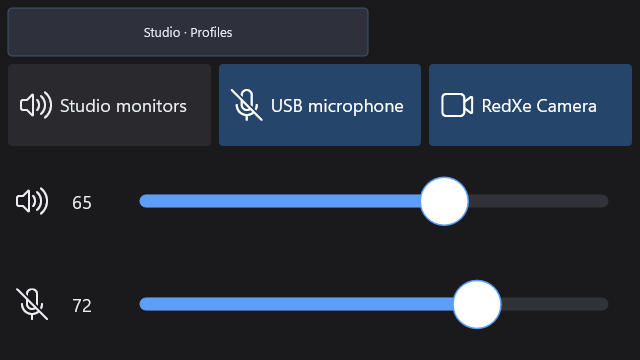
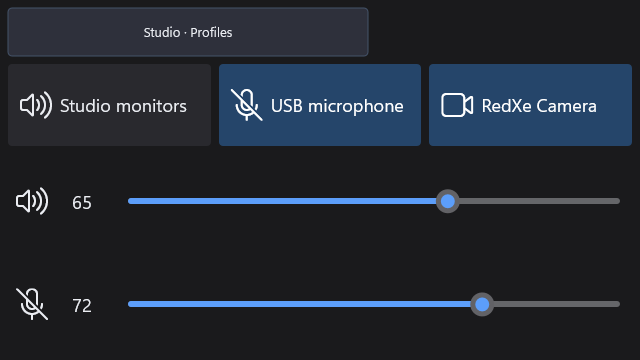
Fix touch cancellation and refresh AV sliders

Changed region(s): [[0.1875, 0.7639, 0.9688, 0.9167], [0.1875, 0.4889, 0.9688, 0.6417]]

diff --git a/RedXe/Application.cpp b/RedXe/Application.cpp
@@ -1,5 +1,6 @@
 #include "Application.h"
 #include "AccessibilityHost.h"
+#include "PointerCancellation.h"
 #include <UIAutomation.h>
 
 #include "CrashHandler.h"
@@ -50,13 +51,6 @@ constexpr LONG kXeneonEdgeClientHeight = 720;
 {
     // ptPixelLocation is a predicted point that can miss a 48 DIP control on first contact.
     return information.ptPixelLocationRaw;
-}
-
-[[nodiscard]] bool PointerStillInContact(UINT32 pointerId) noexcept
-{
-    POINTER_INFO information{};
-    return GetPointerInfo(pointerId, &information) && (information.pointerFlags & POINTER_FLAG_INCONTACT) != 0 &&
-           (information.pointerFlags & POINTER_FLAG_CANCELED) == 0;
 }
 
 void HostReleasePointerCapture(HWND window, UINT32 pointerId) noexcept
@@ -1866,16 +1860,18 @@ bool Application::TryPointerClientPosition(HWND window, UINT32 pointerId, POINT&
                                            LPARAM lParam) const noexcept
 {
     POINTER_INFO information{};
-    if (GetPointerInfo(pointerId, &information) &&
-        (information.pointerType == PT_TOUCH || information.pointerType == PT_PEN) &&
-        (information.pointerFlags & POINTER_FLAG_CANCELED) == 0)
+    if (GetPointerInfo(pointerId, &information))
     {
+        if ((information.pointerType != PT_TOUCH && information.pointerType != PT_PEN) ||
+            (information.pointerFlags & POINTER_FLAG_CANCELED) != 0)
+            return false;
         position = PointerScreenPixels(information);
         if (ScreenToClient(window, &position))
         {
             qpc = information.PerformanceCount;
             return true;
         }
+        return false;
     }
 
     // WM_POINTER* lParam is physical screen coordinates of the contact.
@@ -3578,6 +3574,15 @@ LRESULT CALLBACK Application::SettingsDialogProcedure(HWND window, UINT message,
 
 LRESULT Application::HandleMessage(HWND window, UINT message, WPARAM wParam, LPARAM lParam) noexcept
 {
+    if (PointerMessageCancelsGesture(message, wParam))
+    {
+        const UINT32 pointerId = GET_POINTERID_WPARAM(wParam);
+        if (_interactivePointerWidget != SIZE_MAX && pointerId == _interactivePointerId)
+            CancelInteractivePointer();
+        if (PageTouchesContain(pointerId))
+            CancelPageNavigation();
+        return 0;
+    }
     const auto refreshAccessibility = wil::scope_exit(
         [&]() noexcept
         {
@@ -3686,17 +3691,6 @@ LRESULT Application::HandleMessage(HWND window, UINT message, WPARAM wParam, LPA
     case WM_POINTERUP:
         OnPointerUp(window, wParam, lParam);
         return 0;
-    case WM_POINTERCAPTURECHANGED:
-        if (_interactivePointerWidget != SIZE_MAX && GET_POINTERID_WPARAM(wParam) == _interactivePointerId &&
-            !PointerStillInContact(GET_POINTERID_WPARAM(wParam)))
-        {
-            CancelInteractivePointer();
-        }
-        if (PageTouchesContain(GET_POINTERID_WPARAM(wParam)))
-        {
-            CancelPageNavigation();
-        }
-        return 0;
     case WM_LBUTTONDOWN:
         OnMouseButtonDown(window, lParam);
         return 0;
@@ -3774,6 +3768,8 @@ LRESULT Application::HandleMessage(HWND window, UINT message, WPARAM wParam, LPA
         SetRaiseCloseHovered(false);
         return 0;
     case WM_CANCELMODE:
+        CancelPageNavigation();
+        [[fallthrough]];
     case WM_KILLFOCUS:
         CancelInteractivePointer();
         ClearKeyboardFocus();

diff --git a/Plugins/AVControl/AVControlView.cpp b/Plugins/AVControl/AVControlView.cpp
@@ -261,10 +261,18 @@ void LiveView::SetVisible(bool visible) noexcept
 }
 void LiveView::SetState(const ConfirmedState& state, std::wstring_view profileName, uint32_t pendingMask) noexcept
 {
-    if (_state.output.id != state.output.id || _state.output.generation != state.output.generation ||
-        _state.output.levelRevision != state.output.levelRevision || _state.microphone.id != state.microphone.id ||
-        _state.microphone.generation != state.microphone.generation ||
-        _state.microphone.levelRevision != state.microphone.levelRevision)
+    const bool outputChanged = _state.output.id != state.output.id ||
+                               _state.output.generation != state.output.generation ||
+                               _state.output.levelRevision != state.output.levelRevision;
+    const bool microphoneChanged = _state.microphone.id != state.microphone.id ||
+                                   _state.microphone.generation != state.microphone.generation ||
+                                   _state.microphone.levelRevision != state.microphone.levelRevision;
+    const auto* captured = _view.Controls().GetCapturedControl();
+    // An unrelated endpoint's level notification must not interrupt the slider under the finger.
+    // Inspect capture, including a thumb grab that has not emitted its first Preview yet.
+    const bool unaffectedSlider =
+        captured && ((captured == _sliders[0] && !outputChanged) || (captured == _sliders[1] && !microphoneChanged));
+    if ((outputChanged || microphoneChanged) && !unaffectedSlider)
         Cancel();
     _state = state;
     const size_t count = (std::min)(profileName.size(), _profileName.size() - 1);
@@ -327,7 +335,6 @@ void LiveView::Arrange()
         _levelMutes[i]->SetVisible(usable && mute.width > 0.0f && mute.height >= 48.0f);
         _levelMutes[i]->SetBounds(Bounds(mute));
         _levelIcons[i]->SetVisible(usable);
-        _levelValues[i]->SetVisible(usable);
         constexpr float kLevelIconDip = 32.0f;
         const float icon = (std::min)(kLevelIconDip, (std::max)(24.0f, mute.height - 8.0f));
         _levelIcons[i]->SetFontRole(IconFontRole(fluent, icon));
@@ -336,6 +343,9 @@ void LiveView::Arrange()
         const float iconX = mute.x + 8.0f;
         const float iconY = rowTop + (mute.height - icon) * 0.5f;
         _levelIcons[i]->SetBounds(D2D1::RectF(iconX, iconY, iconX + icon, iconY + icon));
+        // Preserve the touch targets when the minimum microphone row cannot fit a readable percentage.
+        // The Slider still exposes its confirmed value through RangeValue accessibility.
+        _levelValues[i]->SetVisible(usable && slider.x - (iconX + icon) >= (minimal ? 24.0f : 32.0f));
         _levelValues[i]->SetBounds(D2D1::RectF(iconX + icon, rowTop, slider.x, rowBottom));
         _levelValues[i]->SetFontRole(minimal ? DxUi::FontRole::Small : DxUi::FontRole::BodyLarge);
         _levelValues[i]->SetAlignment(DWRITE_TEXT_ALIGNMENT_CENTER);

diff --git a/Tests/AVControlTests/NativeViewTests.cpp b/Tests/AVControlTests/NativeViewTests.cpp
@@ -251,6 +251,15 @@ uint32_t RunNativeViewTests()
     {
         gpu.Resize(size[0], size[1]);
         Hr(view.Prepare(size[0], size[1], 96), "AV responsive native preparation");
+        if (size[0] == 160)
+        {
+            Check(!FindLabel(view.Controls().GetRoot(), std::to_wstring(state.microphone.level)),
+                  "minimum microphone row hides a percentage that would overlap the thumb");
+            const auto* input = dynamic_cast<DxUi::Slider*>(
+                FindAccessible(view.Controls().GetRoot(), L"Microphone gain, Windows input level"));
+            Check(input && input->GetValue() == state.microphone.level,
+                  "minimum microphone slider retains its accessible confirmed value");
+        }
         gpu.Draw(view);
         gpu.Save(artifactRoot / (std::to_wstring(size[0]) + L"x" + std::to_wstring(size[1]) + L".png"));
         Check(view.Prepare(size[0], size[1], 96) == S_FALSE, "AV unchanged preparation is clean");
@@ -336,6 +345,20 @@ uint32_t RunNativeViewTests()
     view.Pointer({DxUi::PointerAction::Up, slider.x + slider.width * .8f, y});
     Check(commands.count == count, "AV external level notification cancels stale draft");
     Hr(view.Prepare(640, 360, 96), "AV confirmed change prepare");
+    const float grabX = slider.x + 12.0f + (slider.width - 24.0f) * state.output.level / 100.0f;
+    Check(view.Pointer({DxUi::PointerAction::Down, grabX + 8.0f, y + 16.0f}),
+          "AV accepts an off-center finger grab without seeking");
+    ++state.microphone.levelRevision;
+    state.microphone.level = 33;
+    view.SetState(state, L"Studio", 0);
+    Hr(view.Prepare(640, 360, 96), "AV unrelated microphone update during output grab");
+    Check(view.Pointer({DxUi::PointerAction::Move, slider.x + slider.width * .75f, y + 16.0f}),
+          "AV output drag survives an unrelated microphone level update");
+    view.Pointer({DxUi::PointerAction::Up, slider.x + slider.width * .75f, y + 16.0f});
+    Check(commands.count == count + 1 && commands.last.kind == ViewCommandKind::SetLevel &&
+              commands.last.device == DeviceKind::Output,
+          "AV preserved output gesture commits exactly once after unrelated input changes");
+    Hr(view.Prepare(640, 360, 96), "AV prepare after unrelated-input regression");
     gpu.Draw(view);
     const auto initial = view.Statistics();
     for (uint32_t i = 0; i < 1000; ++i)

diff --git a/Tests/HostPluginTests/HostPluginTests.cpp b/Tests/HostPluginTests/HostPluginTests.cpp
@@ -9,6 +9,7 @@
 #include "PlugInterfaces/FactoryImpl.h"
 #include "PluginHost.h"
 #include "PluginManager.h"
+#include "PointerCancellation.h"
 #include "ProcessViewerTestContract.h"
 #include "Renderer.h"
 #include "Settings.h"
@@ -334,6 +335,20 @@ void TestFrameScheduler(bool& success) noexcept
 void TestPageSwipePolicy(bool& success) noexcept
 {
     std::wcout << L"[ RUN      ] page swipe axis lock, rubber-band, commit, and settle\n";
+    const WPARAM contact = MAKEWPARAM(17, POINTER_MESSAGE_FLAG_INCONTACT);
+    const WPARAM canceled = MAKEWPARAM(17, POINTER_MESSAGE_FLAG_CANCELED | POINTER_MESSAGE_FLAG_INCONTACT);
+    Check(!PointerMessageCancelsGesture(WM_POINTERDOWN, contact) &&
+              !PointerMessageCancelsGesture(WM_POINTERUPDATE, contact) &&
+              !PointerMessageCancelsGesture(WM_POINTERUP, MAKEWPARAM(17, 0)),
+          L"ordinary contact and release retain the slider commit path", success);
+    Check(PointerMessageCancelsGesture(WM_POINTERCAPTURECHANGED, contact),
+          L"capture loss cancels even when the last sample still says in contact", success);
+    Check(PointerMessageCancelsGesture(WM_POINTERUP, canceled) &&
+              PointerMessageCancelsGesture(WM_POINTERUPDATE, canceled) &&
+              PointerMessageCancelsGesture(WM_POINTERDOWN, canceled),
+          L"canceled contacts never become slider preview or release commits", success);
+    Check(!PointerMessageCancelsGesture(WM_KEYDOWN, canceled), L"pointer flags do not reinterpret unrelated messages",
+          success);
     Check(!PageSwipeAcceptsFingerCount(0), L"no fingers do not navigate dashboard pages", success);
     Check(!PageSwipeAcceptsFingerCount(1), L"one finger does not navigate dashboard pages", success);
     Check(PageSwipeAcceptsFingerCount(2), L"two fingers may navigate dashboard pages", success);

diff --git a/Tests/AVControlTests/AVControlTests.cpp b/Tests/AVControlTests/AVControlTests.cpp
@@ -151,8 +151,7 @@ void LayoutTests()
         Require(layout.density != Density::Unusable, "supported rectangle has usable density");
         std::vector<Rect> targets(layout.toggles.begin(), layout.toggles.end());
         for (const auto& mute : layout.levelMutes)
-            if (mute.width >= 48.0f && mute.height >= 48.0f)
-                targets.push_back(mute);
+            targets.push_back(mute);
         targets.push_back(layout.profileSelector);
         for (size_t i = 0; i < layout.sliders.size(); ++i)
         {
@@ -213,8 +212,8 @@ void LayoutTests()
                 compact.sliders[0].height <= 48.01f && compact.sliders[0].height >= 47.99f,
             "level mute stays 48 DIP tall while the slider uses a 48 DIP touch pointer band");
     Require(compact.toggles[0].height >= 48.0f, "compact mute cards stay at least 48 DIP tall");
-    Require(minimum.sliders[1].width >= 48.0f && minimum.levelMutes[1].width > 0.0f,
-            "minimum microphone row keeps a 48 DIP slider and a leading mute gutter");
+    Require(minimum.sliders[1].width >= 48.0f && minimum.levelMutes[1].width >= 48.0f,
+            "minimum microphone row keeps both slider and mute targets at least 48 DIP wide");
 }
 } // namespace
 

diff --git a/RedXe/PointerCancellation.h b/RedXe/PointerCancellation.h
@@ -1,0 +1,12 @@
+#pragma once
+
+#include <windows.h>
+
+// Capture loss is terminal even when GetPointerInfo still describes the preceding in-contact sample.
+// A canceled Up is not a release/commit. Read this before falling back to the message coordinates.
+[[nodiscard]] inline bool PointerMessageCancelsGesture(UINT message, WPARAM wParam) noexcept
+{
+    return message == WM_POINTERCAPTURECHANGED ||
+           ((message == WM_POINTERDOWN || message == WM_POINTERUPDATE || message == WM_POINTERUP) &&
+            IS_POINTER_CANCELED_WPARAM(wParam));
+}

diff --git a/Plugins/AVControl/AVControlLayout.cpp b/Plugins/AVControl/AVControlLayout.cpp
@@ -44,7 +44,8 @@ LiveLayout LayoutLive(float width, float height) noexcept
 
     if (layout.density == Density::Minimal)
     {
-        constexpr float padding = 8;
+        // At the minimum width, leave room for a 48 DIP mute, slider and Profile target plus their gap.
+        const float padding = (std::min)(8.0f, (width - 152.0f) * 0.5f);
         constexpr float gap = 4;
         const float bodyWidth = width - 2 * padding;
         layout.header = {padding, 0, bodyWidth, 20};

diff --git a/Specs/Plugins/Plugins_AVControl.md b/Specs/Plugins/Plugins_AVControl.md
@@ -1,7 +1,7 @@
 # AV Control
 
 Status: normative implementation contract; feature delivery in progress
-Last reviewed: 2026-09-08
+Last reviewed: 2026-09-09
 
 The active [AV implementation plan](../Plans/WIP/RFC_Plugins_AVControl.md) tracks unfinished integration and release
 gates. The browser mockup and synthetic tests are not evidence of working Windows audio or camera backends.
@@ -26,6 +26,8 @@ Slider gestures retain the endpoint ID, generation, level revision and layout re
 only the local draft. Commit publishes at most once and only while those identities/revisions remain coherent.
 Cancel, endpoint replacement, external level change or changed geometry produces no endpoint write. Level changes
 never alter mute. Keyboard ranges retain one-point precision, five-point page steps and clamp at 0–100.
+An update to the other audio endpoint MUST NOT cancel the captured slider, including an off-center thumb grab
+before its first Preview. A change to the captured endpoint still cancels the gesture.
 
 ## Responsive live view
 
@@ -35,17 +37,18 @@ and Profile hit targets are at least 48×48 logical pixels. Sliders are 48 DIP t
 at least 48 DIP wide. Hit targets do not overlap or extend outside their tile. Mute and camera-off
 buttons use state-specific Fluent glyphs (volume/mute, microphone/mic-off) sized to 32 DIP `IconLarge` with 12 DIP
 padding inside the card. Camera always uses the video glyph (`E714`), including unavailable and off, and uses
-disabled text when the row cannot activate. Level sliders use DxUi's 6 DIP track, 20 DIP gray chrome disc, and accent inner thumb
-(6 DIP rest, 16 hover, 12 pressed). The 48 DIP pointer band is the unpainted touch target; it is not the whole level
+disabled text when the row cannot activate. Level sliders use DxUi's 6 DIP track, 24 DIP gray chrome disc, and accent inner thumb
+(14 DIP rest, 20 hover, 16 pressed). The 48 DIP pointer band is the unpainted touch target; it is not the whole level
 panel and is not sized from the chrome disc. The leading icon and level value share a
-48 DIP mute hit target that sends the same mute command as the matching
-device card whenever the row is wide enough to keep both that target and the slider at 48 DIP wide.
+mute hit target at least 48 DIP wide that sends the same mute command as the matching device card.
+If the leading gutter cannot fit a readable percentage, hide only that text; the Slider retains its accessible value.
 
 Widths below 320 or heights below 300 use the minimal layout: three mute/off targets followed by two compact
 sliders. A quiet, labeled Profile target shares the microphone row; the output slider retains the full row width.
 Both sliders keep a 48 DIP hit height centered in the level panel, with compact labels in the leading
-mute target. At 160×180, the microphone level row is 92 pixels
-wide: a leading mute gutter plus a 48-pixel slider. Profile is 48×48. Profile selection is one tap at every size.
+mute target. At widths from 160 through 168 DIP, horizontal padding grows from 4 to 8 DIP to preserve all targets.
+At 160×180, the microphone level row is 100 DIP wide: a 52 DIP mute target plus a 48 DIP slider; its cramped numeric
+label is hidden. Profile stays at least 48×48. Profile selection is one tap at every size.
 Otherwise widths below 800 with height at least 620 use tall
 rows; widths at least 800 below height 480 use the wide layout; remaining sizes below width 800 or height 480 use
 compact layout; others use the large layout. Definitions remain subordinate to selection. Raised content is at most half the

diff --git a/docs/plugins/av-control.md b/docs/plugins/av-control.md
@@ -10,13 +10,15 @@ Plugin id: `builtin.av-control`
 
 Live controls for **output mute**, **microphone mute**, and **camera off**, plus output and microphone levels. The output and microphone buttons show the selected device names; mute also switches the speaker and microphone icons. Camera always keeps a video icon, including when the row is unavailable. Tapping the speaker or microphone icon beside a slider mutes or unmutes that device, the same as the matching device card. Profile selection is one tap at every supported size. **F6** opens profiles from the keyboard.
 
-Smallest useful tile is 160×180 DIPs. Mute, camera and Profile targets are at least 48×48 DIPs. Device icons stay 32 DIP inside the cards. Volume sliders use a 6 DIP track, a 20 DIP gray chrome disc, and an accent inner thumb (6 DIP rest, 16 hover, 12 pressed); their pointer band is 48 DIP tall, centered in the row, so a finger can grab the thumb without jumping the level. Displayed mute and level state changes only after Windows confirms the action. Failure stays visible; it is never drawn as a successful mute or profile switch.
+Smallest useful tile is 160×180 DIPs. Mute, camera and Profile targets are at least 48×48 DIPs. Device icons stay 32 DIP inside the cards. Volume sliders pair a slim rounded track with a clearly visible blue thumb and subtle gray surround. The invisible touch area is 48 DIP tall: grab anywhere near the thumb without jumping the level, or tap farther along the track to seek. Dragging previews the level; releasing commits it. An interrupted touch cancels safely, and changes to the other audio device do not interrupt your drag. Displayed mute and confirmed level state changes only after Windows acknowledges the action. Failure stays visible; it is never drawn as a successful mute or profile switch.
 
 Profiles bind an output, a microphone, and a camera. Loading the dashboard does **not** apply hardware from those definitions. You choose a profile to apply it. Levels are 0–100. Mute is independent of level.
 
 Camera setup inside the widget is guided steps for the separate RedXe Camera package. It does not install or prove that package by itself. Hardware, IME, and screen-reader acceptance are still tracked on the AV plan. When a profile, editor, or camera-setup view has more than one page, a row of dots at the bottom shows the current page.
 
 One-finger touches stay with the widget so sliders and page dots work. Two or three fingers swipe RedXe dashboard pages after the swipe locks sideways; a quick second tap does not cancel a slider.
+
+At the smallest tile size, the microphone percentage is hidden to keep the thumb and mute button clear. Its level remains available to accessibility tools; enlarge the tile to see both percentages.
 
 Double-click or double-tap raises the widget to half the window.
 

diff --git a/Specs/Plans/Done/SliderTouchReview_2026-09-09.md b/Specs/Plans/Done/SliderTouchReview_2026-09-09.md
@@ -1,0 +1,34 @@
+# Slider touch and appearance review
+
+Status: COMPLETE
+
+Owners: `Specs/UI/UI_Dashboard.md`, `Specs/Plugins/Plugins_AVControl.md`,
+`Specs/Core/Core_DxUiIntegration.md`, `Specs/Core/Core_PerformanceAndResources.md`.
+
+The user requested a review of RedXe and DxUi and implementation of slider touch/visual fixes.
+Unrelated review findings are recorded under `.build/review-2026-09-09` without expanding this implementation.
+
+- [x] Fix cancellation before pointer-up dispatch and on capture loss; preserve normal release and other contacts.
+- [x] Validate the production cancellation policy and AV slider gestures with synthetic tests.
+- [x] Adopt the locally validated DxUi commit with a visible accent thumb and reliable model acknowledgement.
+- [x] Fix minimum-tile overlap while retaining every mute, slider and Profile target at least 48 DIP wide.
+- [x] Update normative contracts and the AV user guide; inspect generated native AV captures.
+- [x] Run Debug/Release x64 tests, Release ARM64 build and skill validation.
+- [x] Record physical-touch acceptance honestly; retain the existing AV hardware release gate.
+- [x] Move this plan to Done when implementation and available validation are complete.
+
+No timer, worker, surface or per-frame allocation is added. DxUi keeps the existing drawing operations.
+The dependency commit remains local until the user authorizes publication.
+
+Validation: full Debug/Release `test.ps1` passed, including production host/plugin integration, AV native controls,
+settings, WARP and isolated crash/stack-overflow capture. Release ARM64 built with zero warnings, as did both x64
+configurations. Formatting and skill validation passed. Native dark/light/high-contrast, portrait and minimum
+captures were inspected; the AV guide uses the new screenshot. Physical touch and displayed latency remain unverified
+and are still owned by the existing AV release gate.
+
+RedXe pins DxUi implementation commit `3f50bbcc531e3057571a29d2718d2147ac6bad25`. The library passed all 18 x64 suites
+in both configurations (8/9 desktop-dependent Menu skips), both ARM64 cross-builds and relocated consumer checks.
+Its follow-up `2b4f7bf` retains measurements and closes its plan without changing compiled source. Alternating
+Debug/Release comparisons showed no consistent candidate slowdown on this variable desktop. The user explicitly
+chose to retain the appearance with the observed approximately 0.5 MiB Release clean-private-memory caveat; DxUi's
+performance contract records that narrow tradeoff. Surface and C++ allocation counts did not grow.

diff --git a/Specs/Core/Core_DxUiIntegration.md b/Specs/Core/Core_DxUiIntegration.md
@@ -1,7 +1,7 @@
 # DxUi integration
 
 Status: current normative consumer contract
-Last reviewed: 2026-09-08
+Last reviewed: 2026-09-09
 
 This contract owns how RedXe consumes the standalone DxUi library: the exact source pin, restore/build isolation,
 which process modules link `DxUi.lib`, and the COM/POD boundary that keeps DxUi C++ objects inside those modules.
@@ -17,11 +17,13 @@ that exact commit under `.build/dependencies/DxUi/source/<commit>` and isolates 
 fingerprint that includes commit, API revision, toolset, SDK and CRT. It never checks out, resets, or edits a sibling
 `DxUi` working tree. A mismatched or dirty pin fails the consumer restore.
 
-The pinned library (commit `d192e47…`) releases the cached surface
+The pinned library identified by `Dependencies/DxUi.lock.json` releases the cached surface
 of a hidden or zero-extent `EmbeddedHost`, marks a view dirty only through control invalidation, and bounds its
 solid-brush and configured-text-format caches (256 and 96 entries, reported through `EmbeddedStatistics`).
-Its `Slider` uses a 6 DIP capsule track, a fixed 20 DIP gray chrome disc, and an accent inner thumb (6 DIP rest, 16 hover,
-12 pressed). An unpainted 48 DIP pointer band stays centered on the track so a finger can grab the thumb without seeking.
+Its `Slider` uses a 6 DIP capsule track, a fixed 24 DIP gray chrome disc, and an accent inner thumb (14 DIP rest, 20 hover,
+16 pressed). An unpainted 48 DIP pointer band stays centered on the track so a finger can grab the thumb without seeking.
+Acknowledgement through `SetValue` snaps an in-flight displayed value even when the accepted value is unchanged.
+Non-finite numeric configuration is ignored, and range endpoints cannot create an infinite span.
 Painted chrome and hit testing are independent. Pointer hit-testing stays valid while the cached surface is paint-dirty. Consumers
 rely on `SetVisible(false)` alone to drop a hidden tile's or an unraised overlay's surface; the next sized `Prepare`
 reallocates exactly one surface. The resource consequences for RedXe are owned by

diff --git a/Specs/UI/UI_Dashboard.md b/Specs/UI/UI_Dashboard.md
@@ -1,7 +1,7 @@
 # RedXe adaptive dashboard and page-navigation contract
 
 Status: current normative product contract
-Last reviewed: 2026-09-08
+Last reviewed: 2026-09-09
 Owner: `DashboardHost` layout, active-page composition, page navigation, edge-navigation chrome, host placeholder tiles, and raised overlay chrome
 
 ## Scope
@@ -214,6 +214,12 @@ implicitly captures that contact to the window; explicit `SetPointerCapture` is 
 NOT Cancel the widget Down. Hide, resize, DPI change, a canceled/out-of-contact pointer, and cancellation still
 deliver Cancel. Hit-testing uses the digitizer's raw contact point, not the predicted sample. The pointer record includes the actual viewport
 dimensions, DPI and tile/raised view identity so a prepared final layout can map an animated viewport correctly.
+
+`WM_POINTERCAPTURECHANGED` terminates the matching gesture even when the last `GetPointerInfo` record still has
+`INCONTACT`. Canceled Down/Update/Up messages are filtered before coordinate fallback and never reach the widget as
+a preview or commit. Failure to retrieve pointer information may fall back to message coordinates; an explicitly
+canceled record MUST NOT. Unrelated pointer IDs cannot cancel the captured widget. `WM_CANCELMODE` also cancels a
+pending page gesture. Automated policy tests cover these message flags; physical-touch acceptance remains separate.
 
 The top-level HWND is an OLE drop target after `OleInitialize`. `DragOver` hit-tests a GPU interactive widget and
 calls `OnDragOver`. `Drop` copies `CF_HDROP` filesystem paths and Unicode text that is a full URL into a bounded
